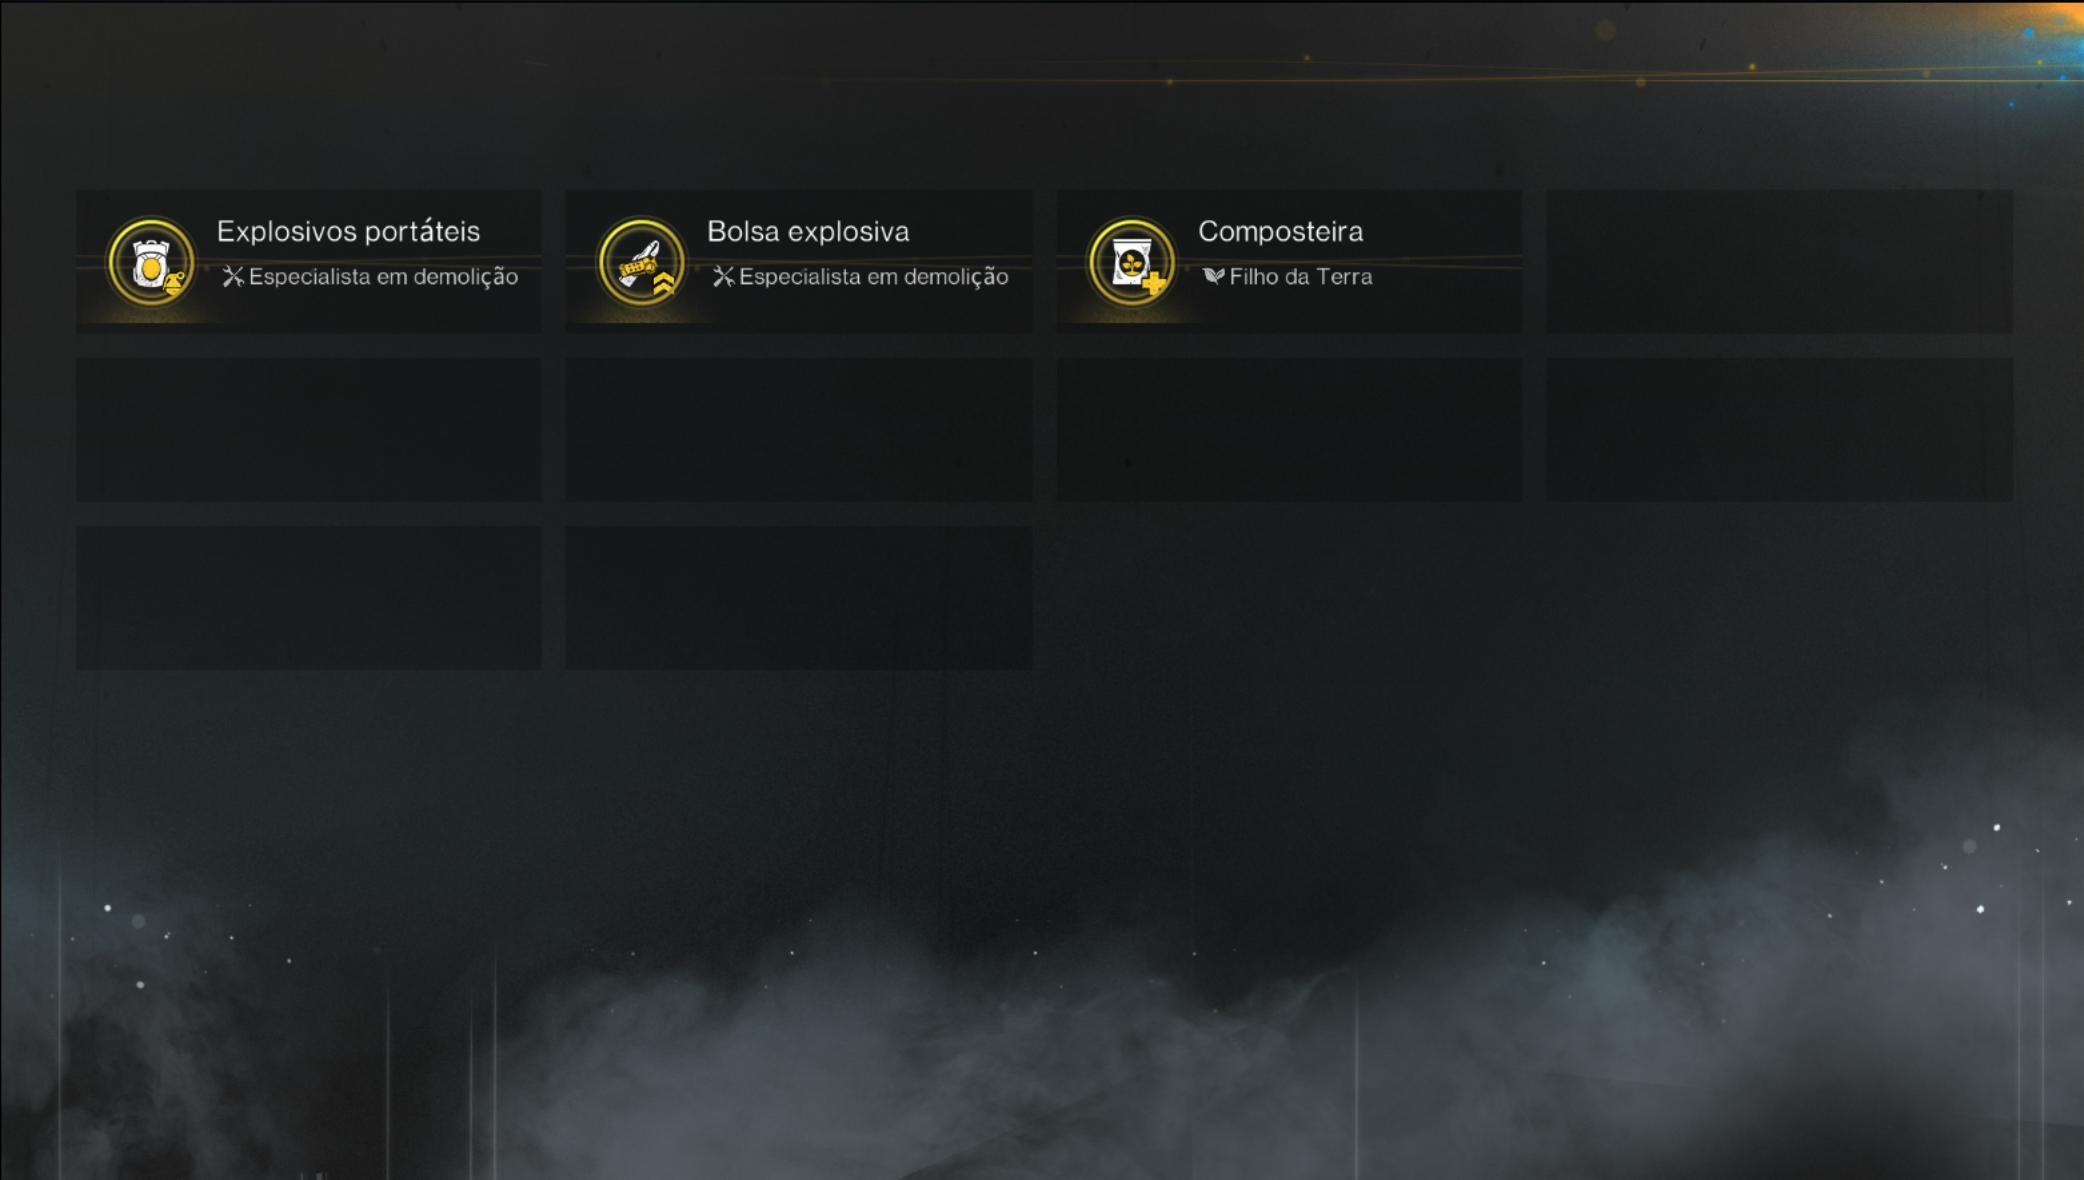
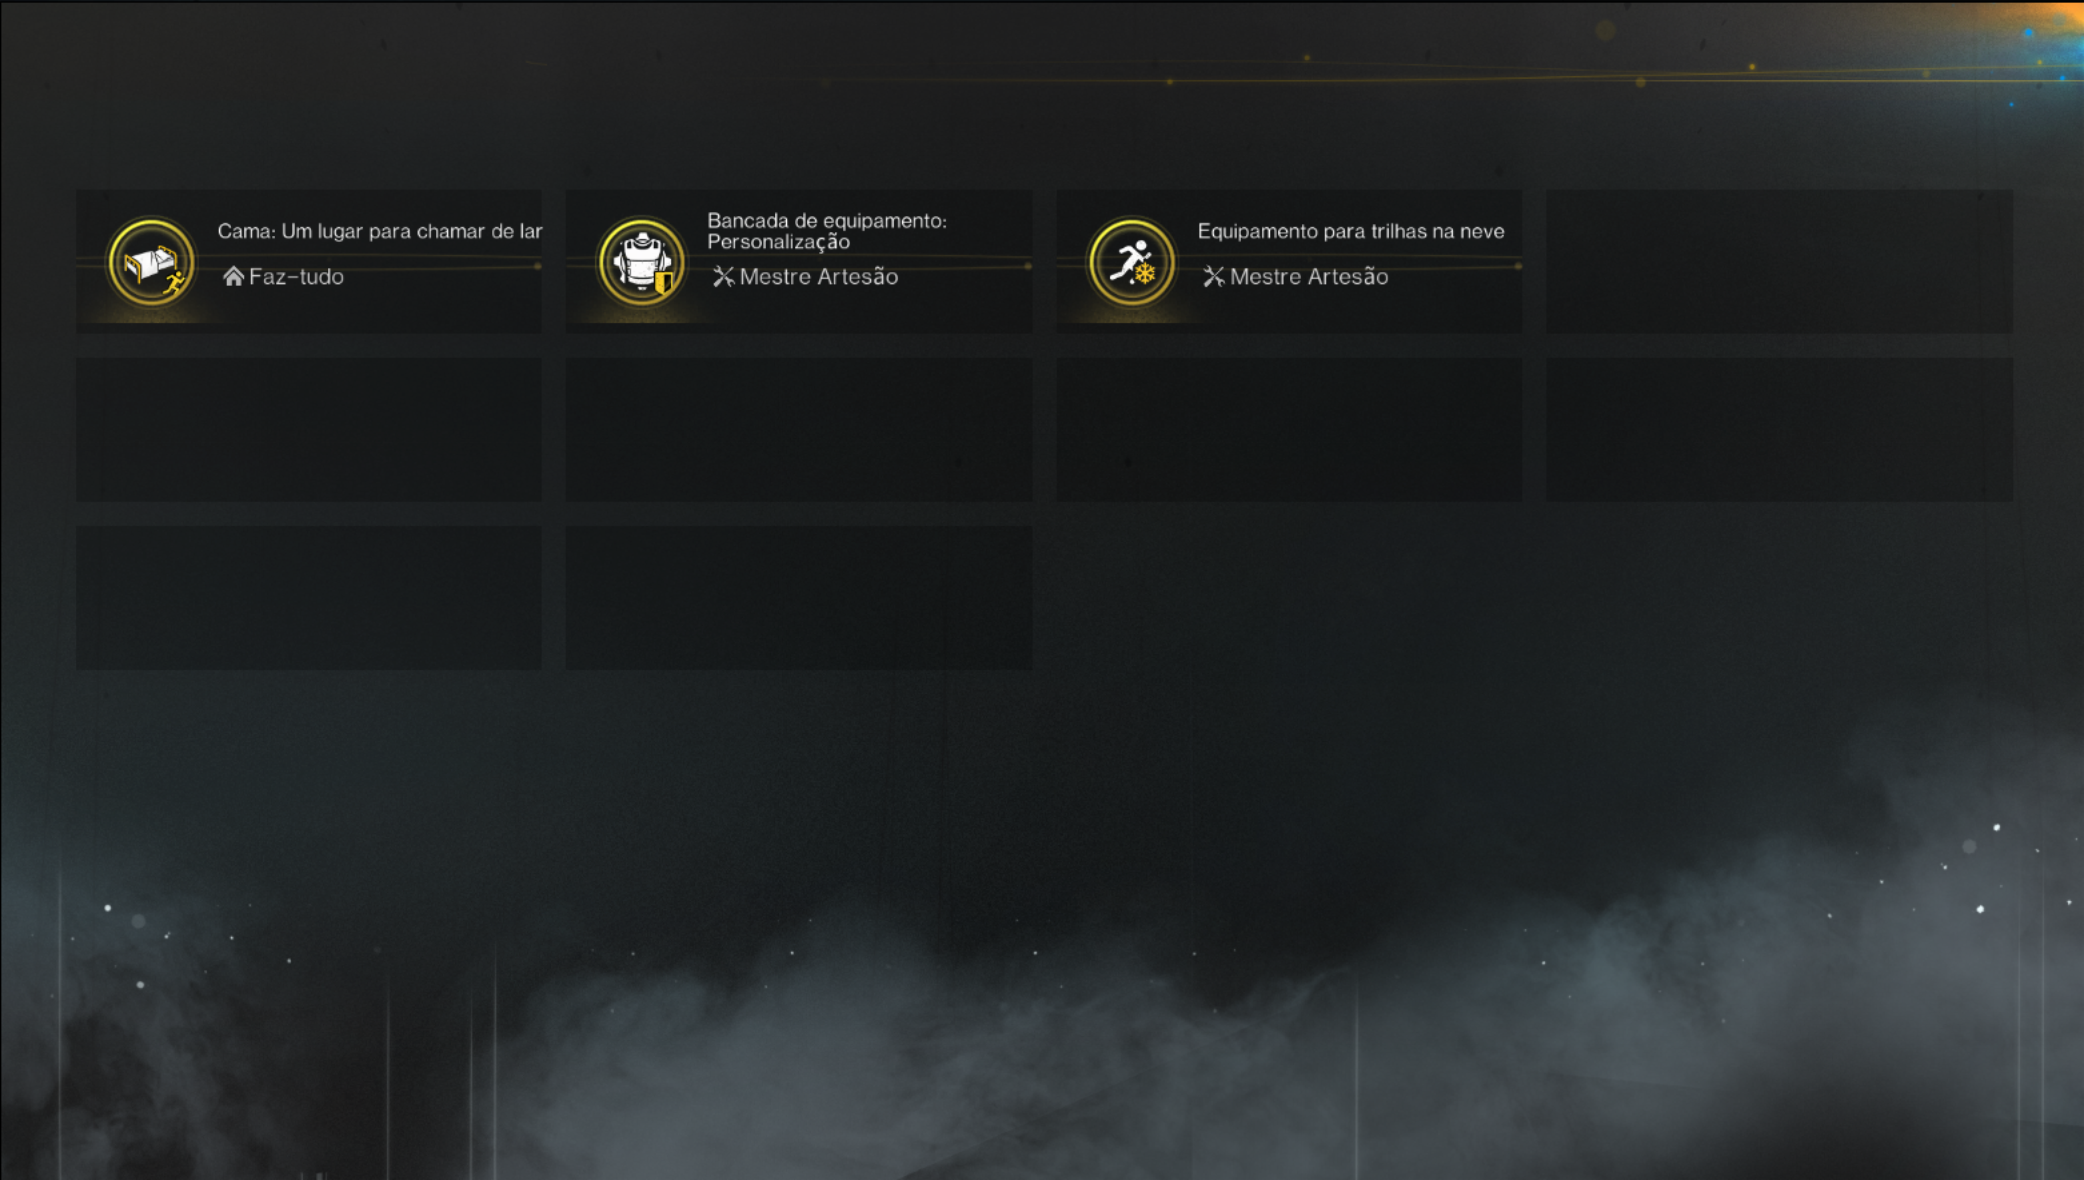
att

Changed region(s): [[0.2807, 0.1831, 0.499, 0.2441], [0.0624, 0.1831, 0.2495, 0.2441], [0.5302, 0.1831, 0.7174, 0.2441]]

diff --git a/info.js b/info.js
@@ -16,7 +16,7 @@ const blocosInfo = [
   {
     nome: "boltalt02",
     id: "150875749",
-    mostrar: false,
+    mostrar: true,
     imagem: "assets/images/boltalt02.png"
   },
   {
@@ -34,25 +34,19 @@ const blocosInfo = [
   {
     nome: "boltalt05",
     id: "150824641",
-    mostrar: false,
+    mostrar: true,
     imagem: "assets/images/boltalt05.png"
   },
   {
     nome: "boltalt06",
     id: "150899727",
-    mostrar: false,
+    mostrar: true,
     imagem: "assets/images/boltalt06.png"
   },
   {
     nome: "boltalt07",
     id: "150899734",
-    mostrar: false,
+    mostrar: true,
     imagem: "assets/images/boltalt07.png"
-  },
-  {
-    nome: "boltalt08",
-    id: "150901252",
-    mostrar: false,
-    imagem: "assets/images/boltalt08.png"
   }
 ];
